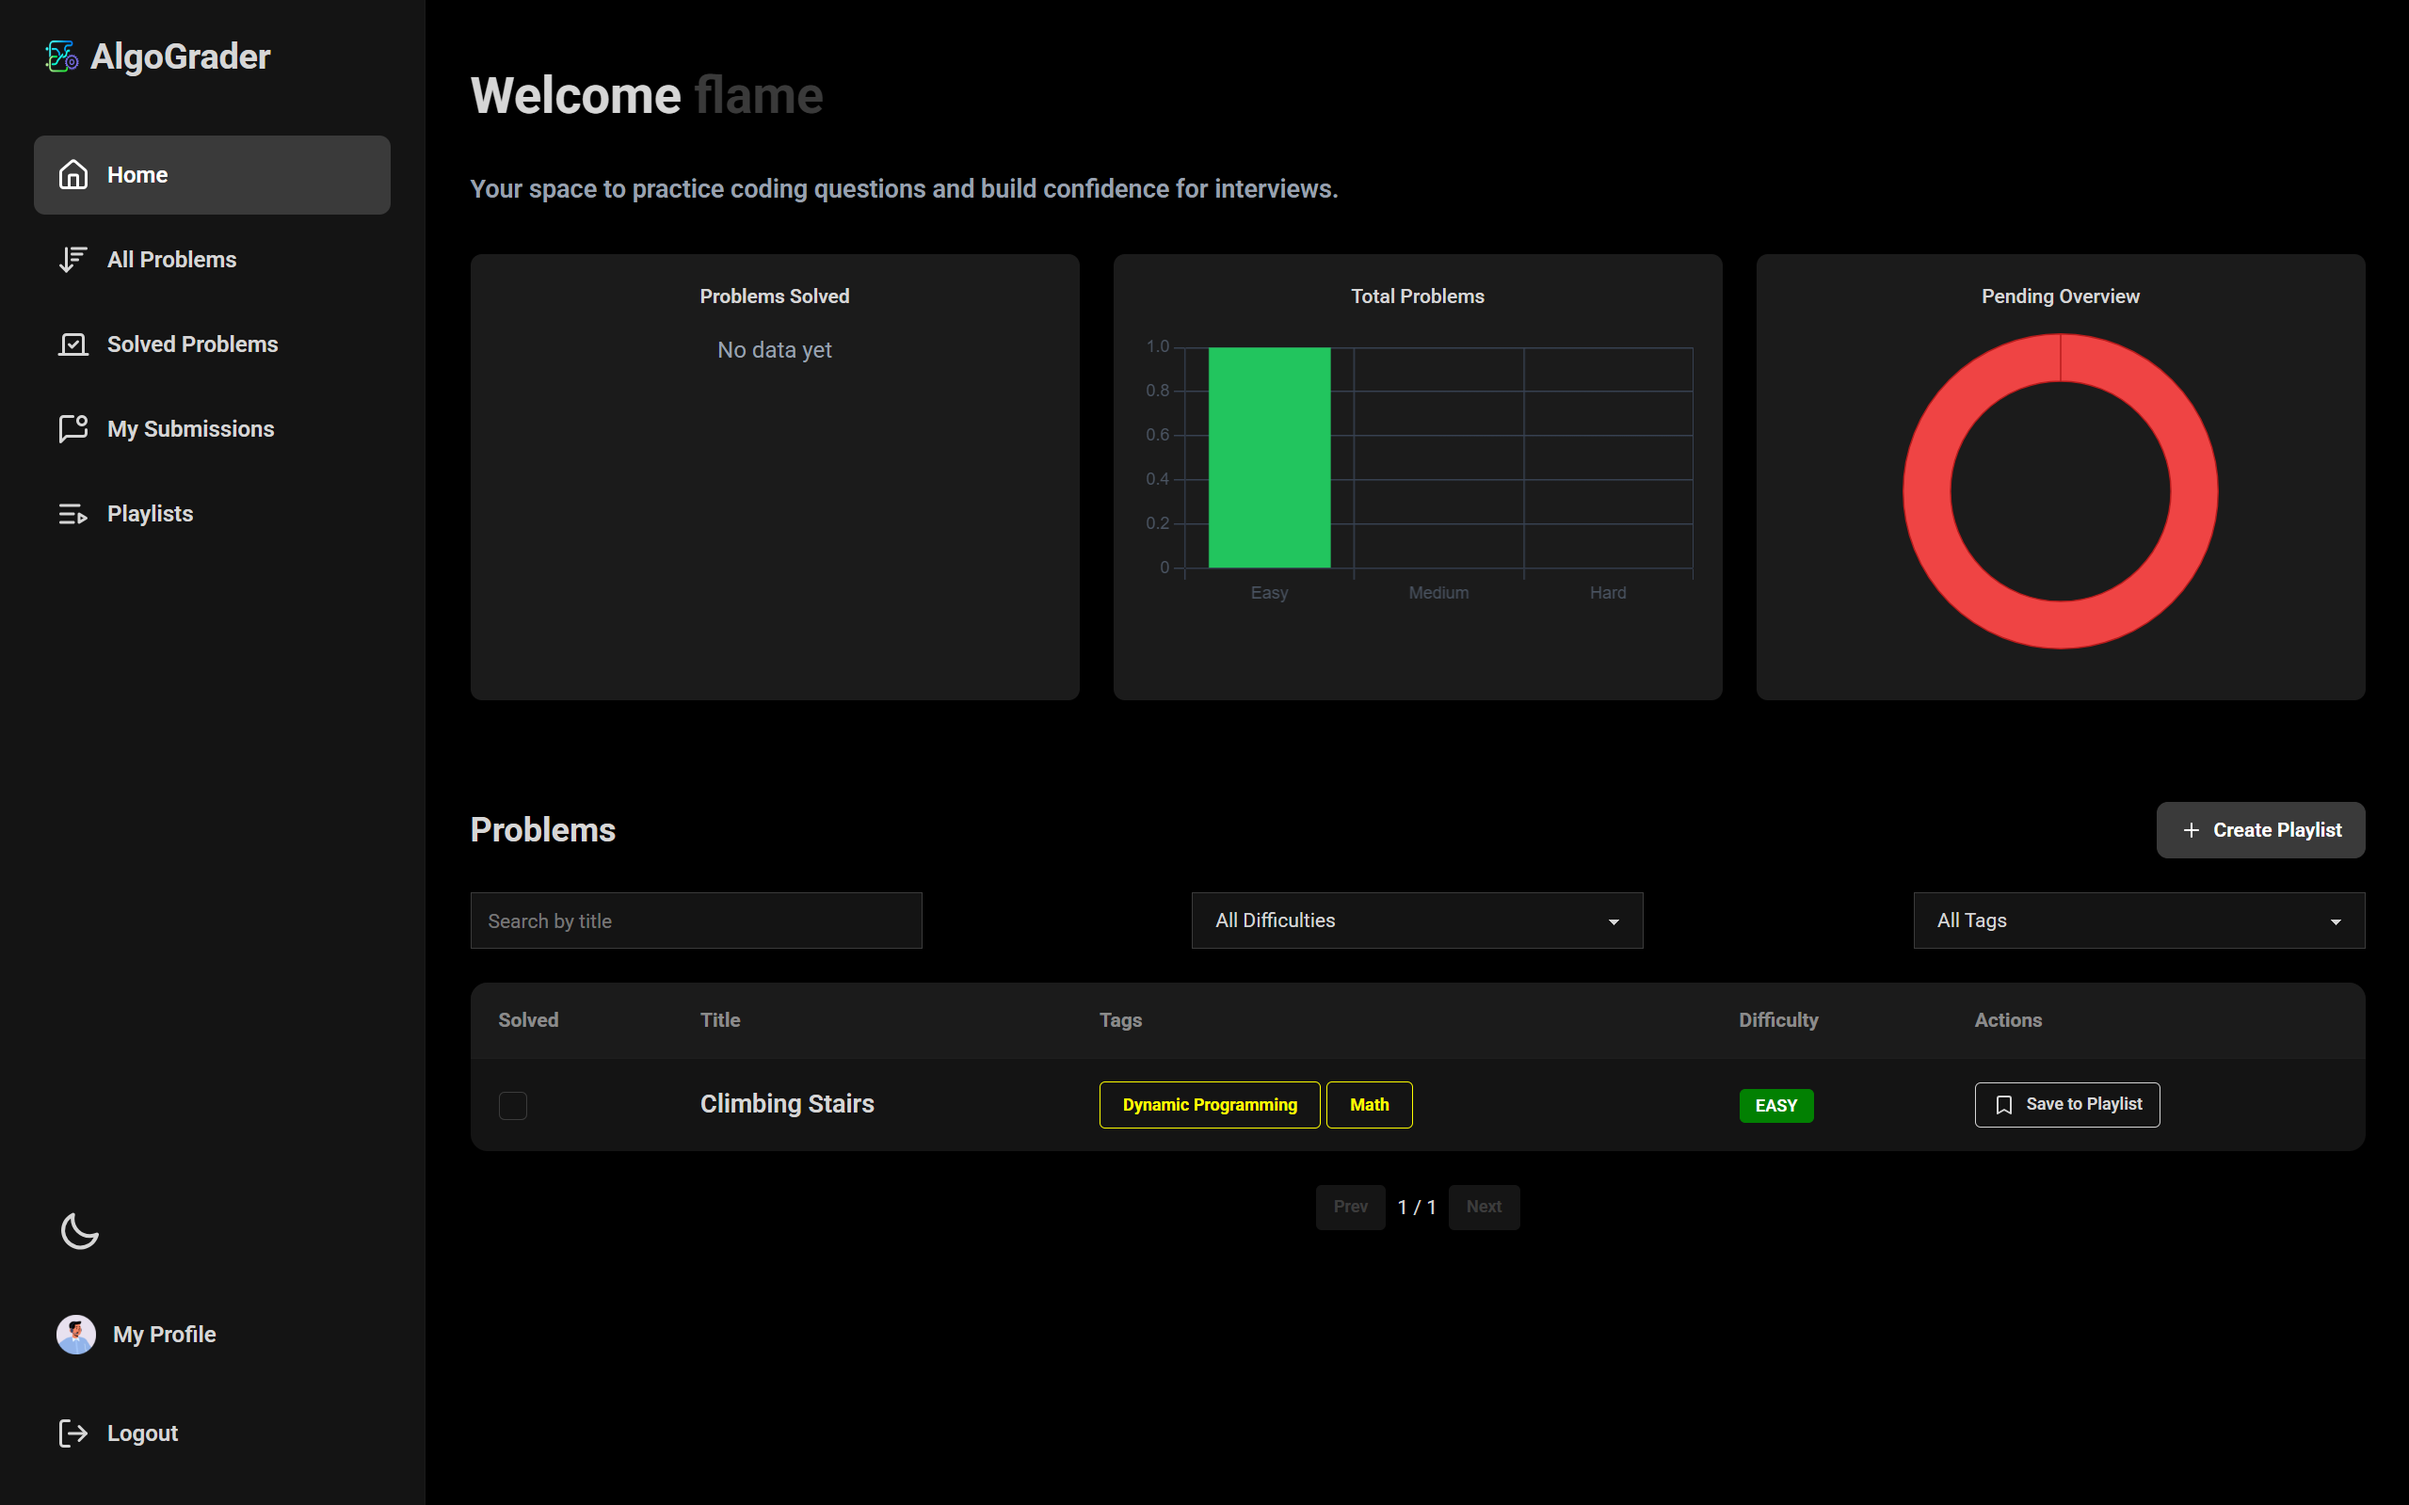
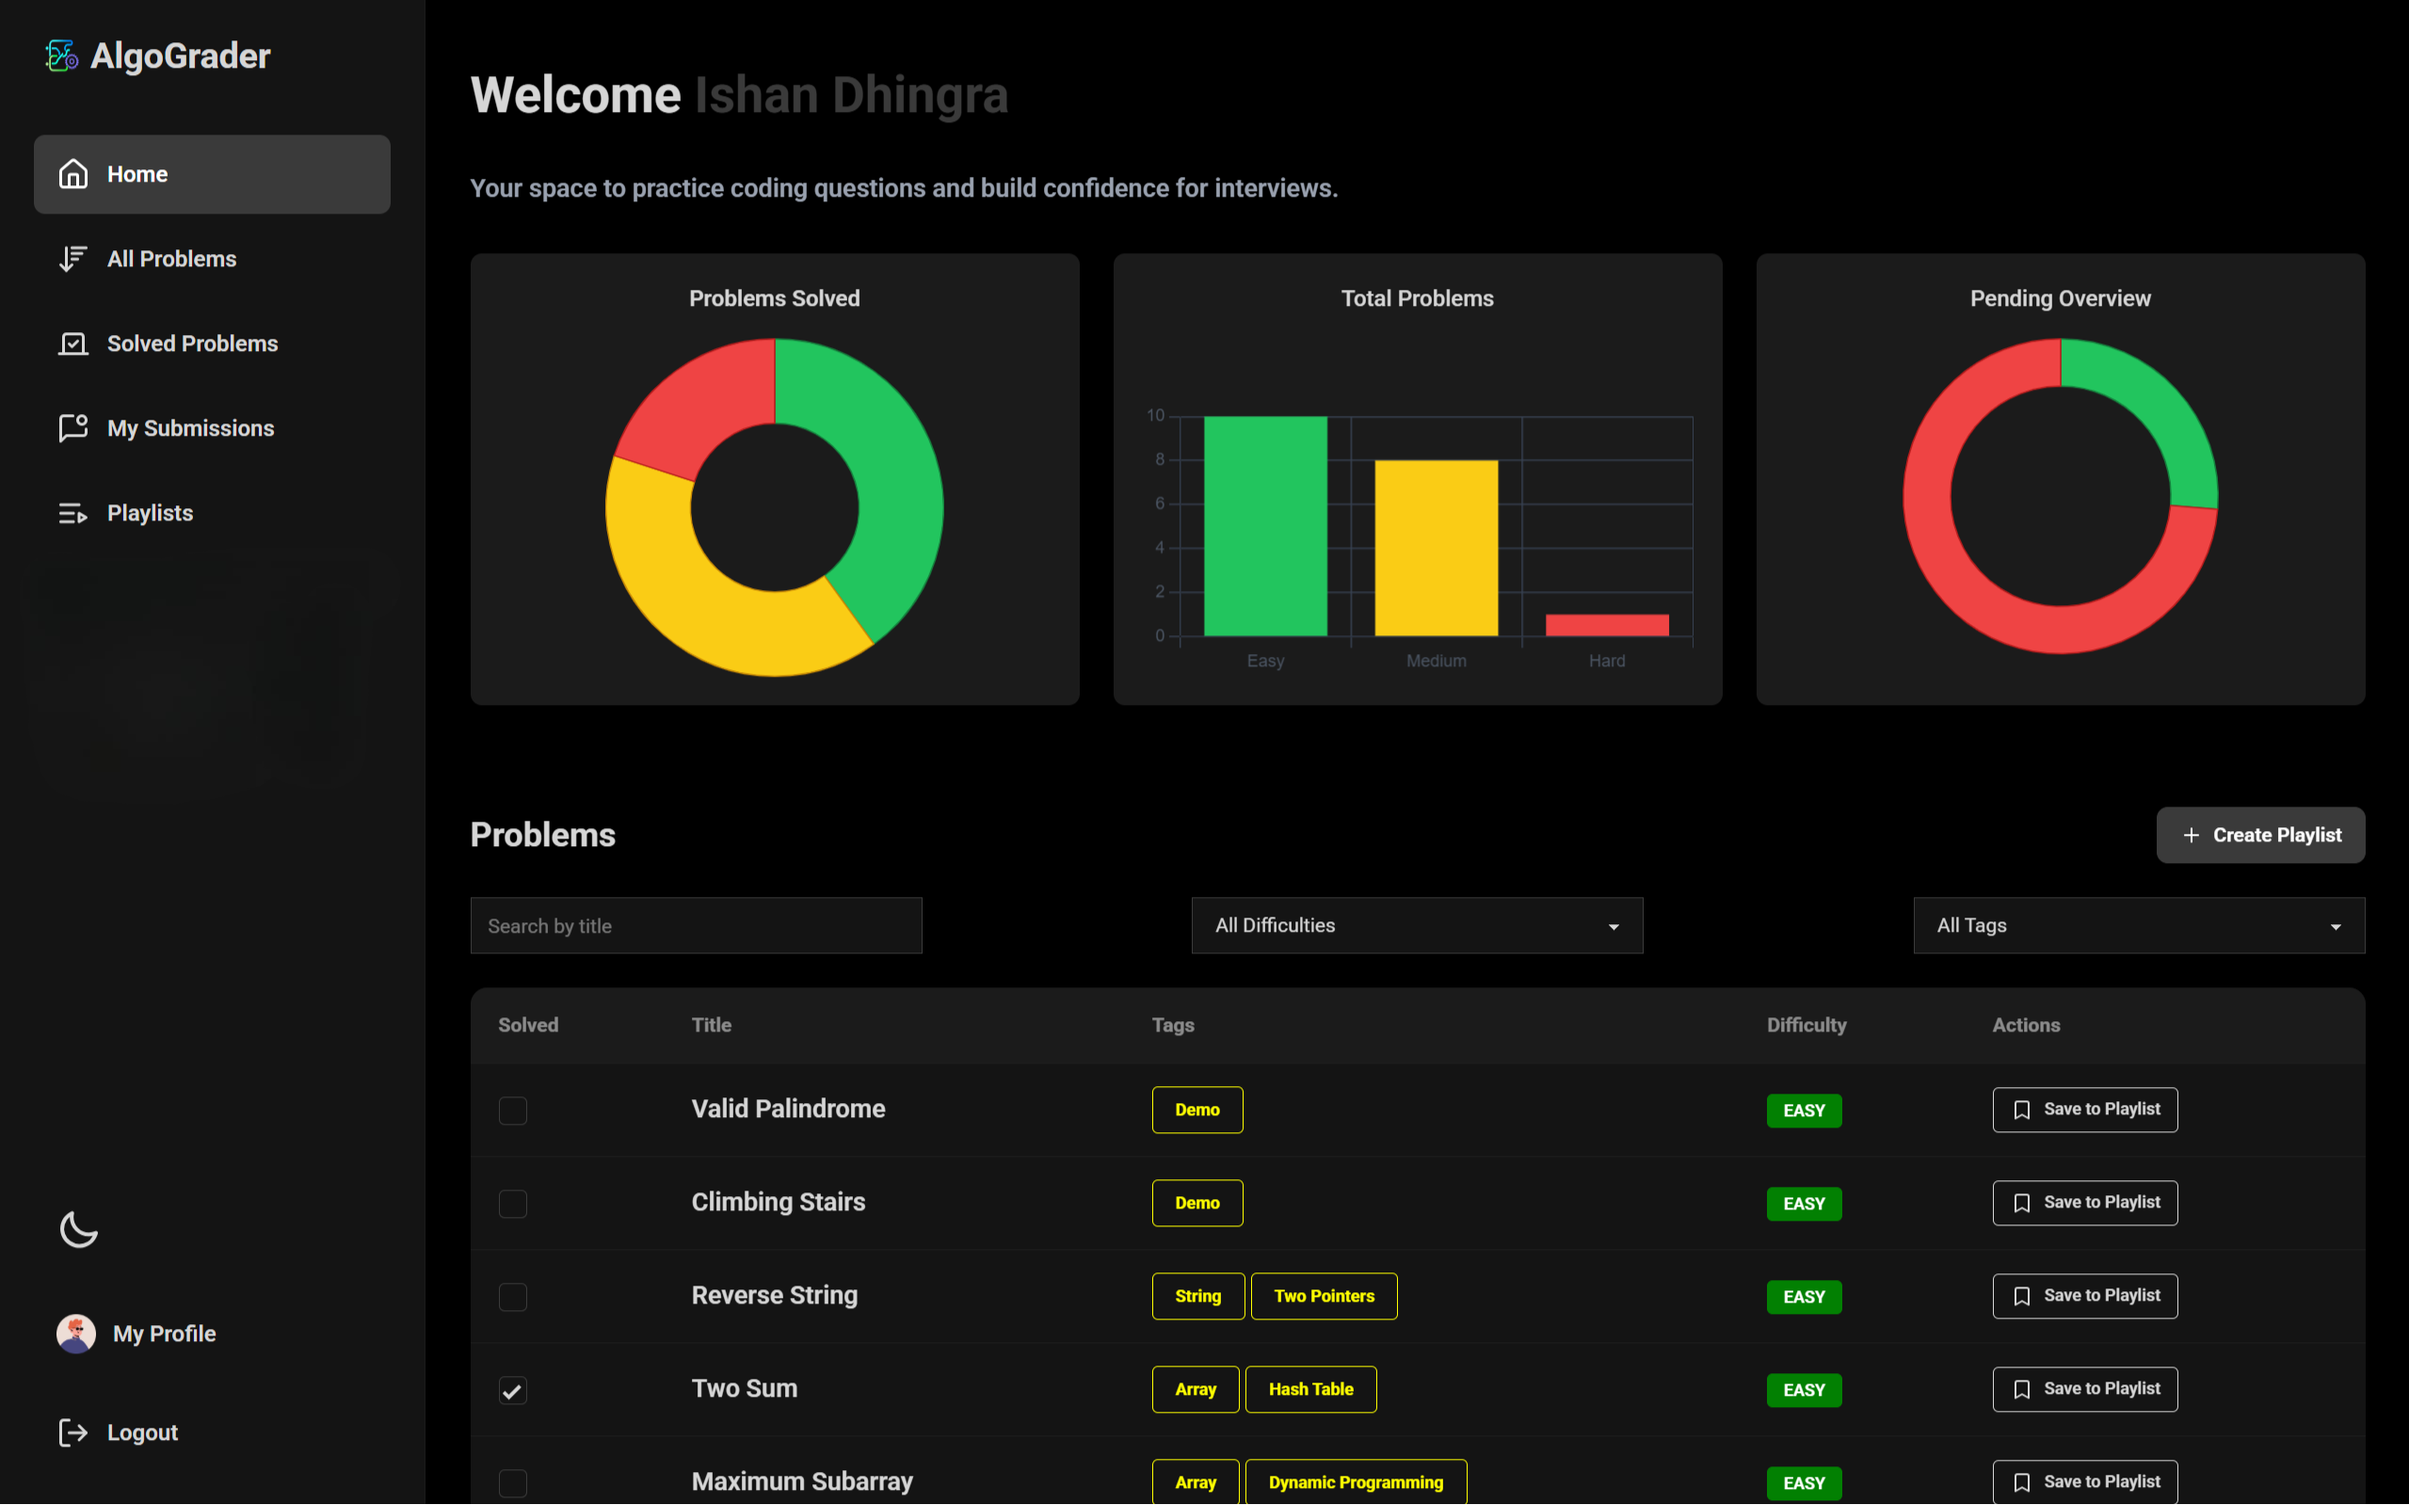
Fix (Frontend): Changed images on landing page and fixed some heights of charts on homepage.

diff --git a/frontend/src/page/HomePage.jsx b/frontend/src/page/HomePage.jsx
@@ -45,18 +45,16 @@ const HomePage = () => {
 
       {/* Stats Section */}
       <div className="grid grid-cols-1 md:grid-cols-2 lg:grid-cols-3 gap-6">
-        <div className="bg-base-300 rounded-lg p-5 shadow hover:shadow-lg transition flex flex-col items-center justify-center">
-          <h3 className="text-sm font-semibold mb-4">Problems Solved</h3>
+        <div className="bg-base-300 rounded-lg p-5 shadow hover:shadow-lg transition flex flex-col items-center justify-between min-h-[300px]">
+          <h3 className="text-md font-semibold">Problems Solved</h3>
           <DoughnutChart />
         </div>
-        <div className="bg-base-300 rounded-lg p-5 shadow hover:shadow-lg transition">
-          <h3 className="text-sm font-medium mb-4 text-center">
-            Total Problems
-          </h3>
+        <div className="bg-base-300 rounded-lg p-5 shadow hover:shadow-lg transition flex flex-col items-center justify-between min-h-[300px]">
+          <h3 className="text-md font-medium  text-center">Total Problems</h3>
           <TotalProblemsChart problems={problems} />
         </div>
-        <div className="bg-base-300 rounded-lg p-5 shadow hover:shadow-lg transition">
-          <h3 className="text-sm font-medium text-center ">Pending Overview</h3>
+        <div className="bg-base-300 rounded-lg p-5 shadow hover:shadow-lg transition flex flex-col items-center justify-between min-h-[300px]">
+          <h3 className="text-md font-medium text-center">Pending Overview</h3>
           <PendingProblemsChart
             total={problems.length}
             solved={solvedProblems.length}

diff --git a/frontend/src/page/UserPlaylist.jsx b/frontend/src/page/UserPlaylist.jsx
@@ -24,7 +24,8 @@ const UserPlaylist = () => {
     removeProblemFromPlaylist,
   } = usePlaylistStore();
 
-  const { getSubmissionCountForProblem, getCountForProblem } = useSubmissionStore();
+  const { getSubmissionCountForProblem, getCountForProblem } =
+    useSubmissionStore();
 
   const [expandedPlaylist, setExpandedPlaylist] = useState(null);
   const [isCreateModalOpen, setIsCreateModalOpen] = useState(false);
@@ -87,7 +88,7 @@ const UserPlaylist = () => {
           difficulty === "EASY"
             ? "badge-success"
             : difficulty === "MEDIUM"
-            ? "badge-warning"
+            ? "bg-orange-400"
             : "badge-error"
         }`}
       >

diff --git a/frontend/src/components/PendingProblemsChart.jsx b/frontend/src/components/PendingProblemsChart.jsx
@@ -42,7 +42,7 @@ const PendingProblemsChart = ({ total, solved }) => {
 
   return (
     <div className="flex justify-center items-center w-full h-full">
-      <div className="w-44 md:w-56 text-center">
+      <div className="w-44 md:w-56 h-56 md:h-64 text-center">
         <Doughnut data={data} options={options} />
       </div>
     </div>
